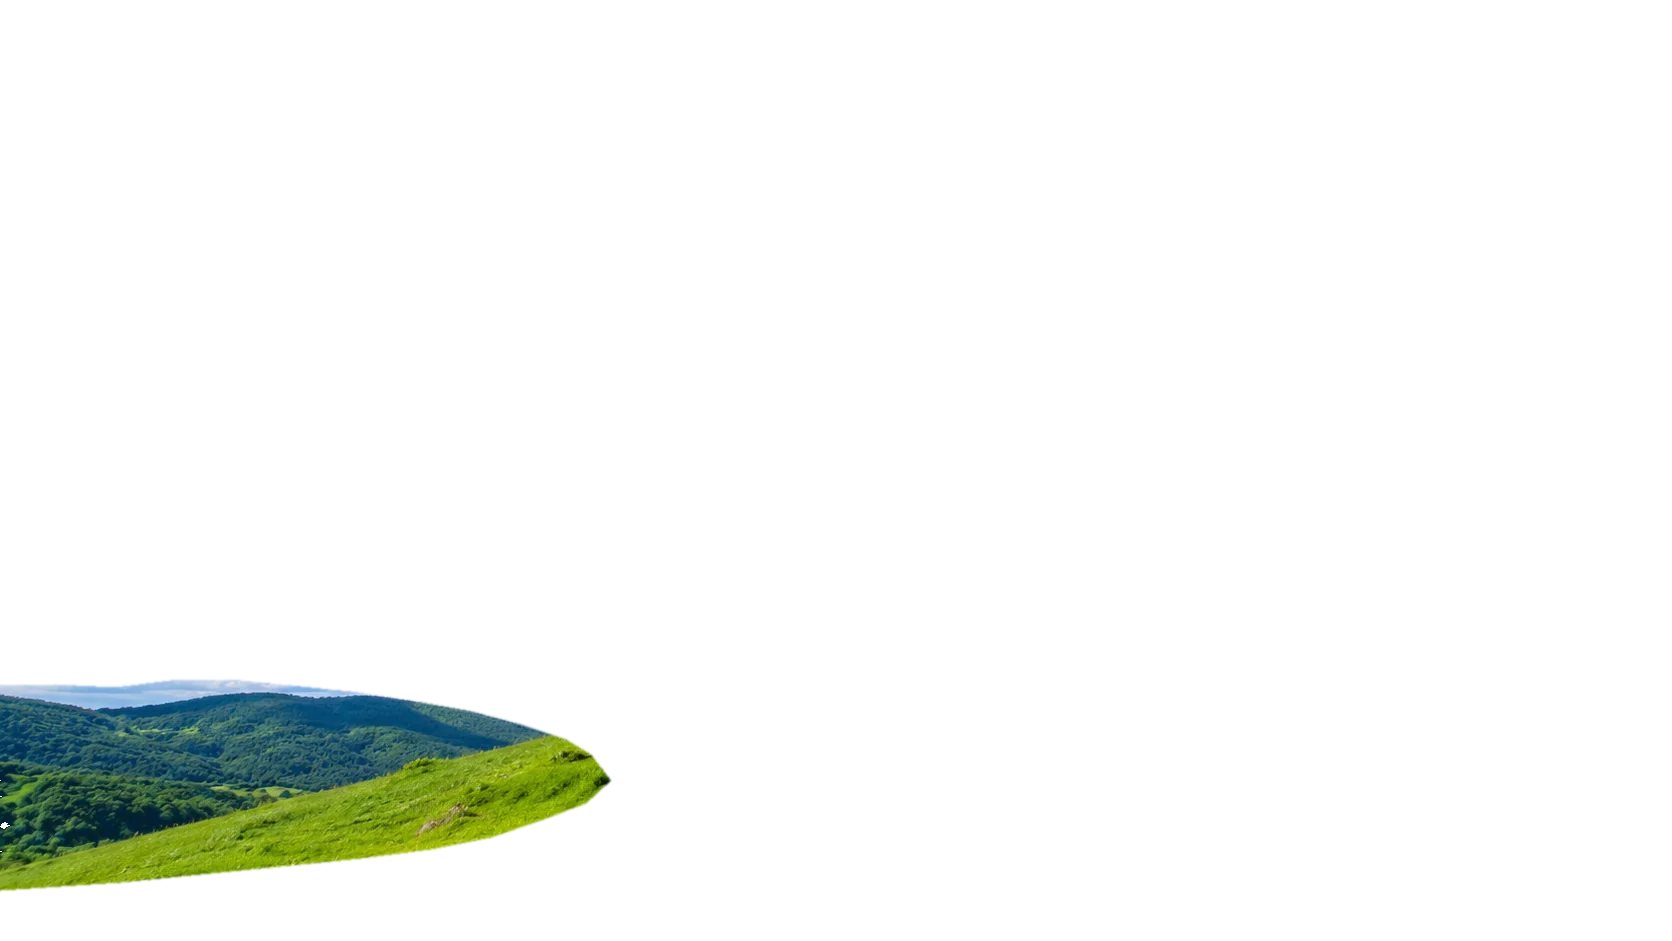
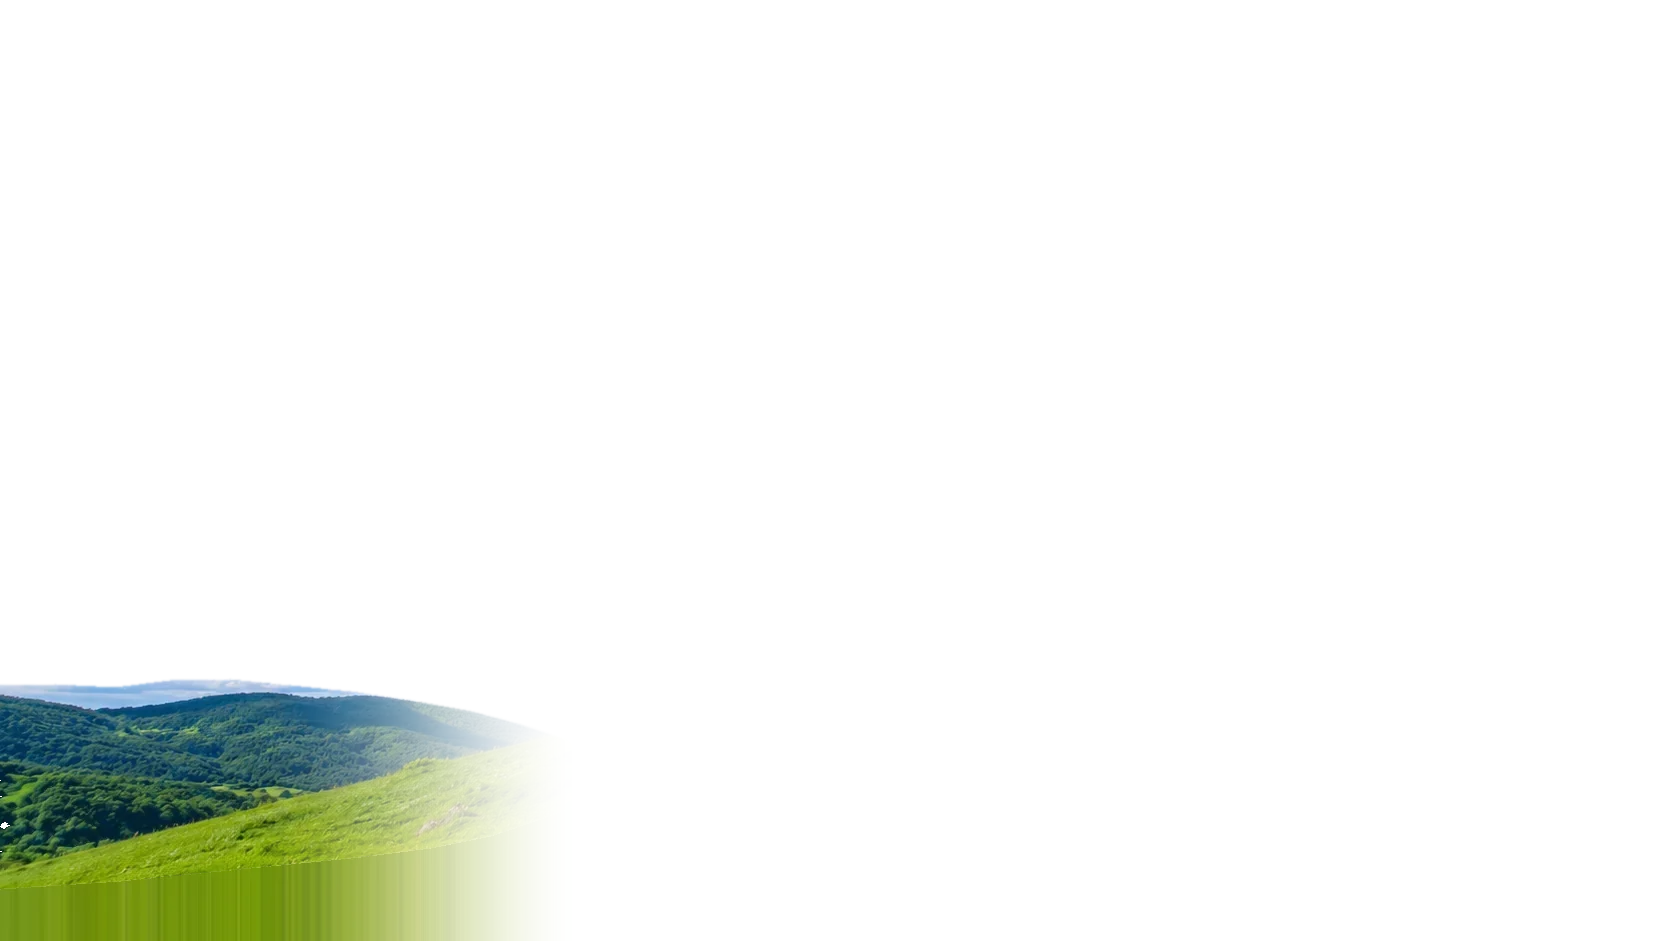
Paisagem: limpa manchas da copa, far sem vão, fim do hero sem faixa verde e nuvens entrando aos poucos

Changed region(s): [[0.0, 0.7396, 0.3732, 1.0]]

diff --git a/src/components/landscape/CloudVeil.tsx b/src/components/landscape/CloudVeil.tsx
@@ -8,7 +8,7 @@
 import { useRef } from "react";
 import { CLOUD_SPAN, cloudCenters } from "@/lib/landscape";
 import { M } from "@/lib/scroll-engine";
-import { clamp } from "@/lib/math";
+import { clamp, sstep } from "@/lib/math";
 import { useScrollFrame } from "@/hooks/useScrollFrame";
 
 const BANKS = [
@@ -19,6 +19,7 @@ const BANKS = [
 export default function CloudVeil() {
   const banks = useRef<(HTMLDivElement | null)[]>([]);
   const veil = useRef<HTMLDivElement>(null);
+  const haze = useRef<HTMLDivElement>(null);
   const wrap = useRef<HTMLDivElement>(null);
 
   useScrollFrame((s) => {
@@ -38,9 +39,18 @@ export default function CloudVeil() {
       if (veil.current) veil.current.style.opacity = Math.sin(Math.PI * p).toFixed(3);
       return;
     }
+    // entrada e saída graduais: os bancos nascem do véu de névoa e se dissolvem de volta nele
+    const fade = sstep(clamp(p / 0.34)) * (1 - sstep(clamp((p - 0.7) / 0.3)));
+    if (haze.current) {
+      // névoa que sobe antes das nuvens (sem borda): o céu esbranquiça aos poucos
+      const hy = vh * (1 - 1.5 * clamp((p + 0.05) / 0.62));
+      haze.current.style.transform = `translate3d(0, ${hy.toFixed(1)}px, 0)`;
+      haze.current.style.opacity = (sstep(clamp(p / 0.3)) * (1 - sstep(clamp((p - 0.8) / 0.2)))).toFixed(3);
+    }
     banks.current.forEach((el, i) => {
       if (!el) return;
       const b = BANKS[i];
+      el.style.opacity = (fade * (i === 0 ? 0.96 : 1)).toFixed(3);
       const h = el.offsetHeight;
       // de baixo da tela (vh) até sumir em cima (-h); o miolo cobre a tela no meio
       const t = clamp((p - 0.5) * b.speed + 0.5 + b.lag);
@@ -51,6 +61,7 @@ export default function CloudVeil() {
 
   return (
     <div ref={wrap} className="cloud-veil" aria-hidden="true">
+      <div ref={haze} className="cv-haze" />
       {BANKS.map((b, i) => (
         <div
           key={i}

diff --git a/src/app/globals.css b/src/app/globals.css
@@ -312,14 +312,14 @@ a {
   position: absolute;
   left: 0;
   right: 0;
-  top: calc(100% - 6vh);
+  top: calc(100% - 1.5vh);
 }
 .ls-green {
-  height: calc(var(--green) + 6vh);
+  height: calc(var(--green) + 1.5vh);
   /* começa na cor média da borda de baixo da foto (#6c930f) e escurece até o chão da Stack */
   background:
     repeating-linear-gradient(100deg, rgba(40, 70, 10, 0.06) 0 3px, transparent 3px 9px),
-    linear-gradient(to bottom, rgba(108, 147, 15, 0), #6c930f 6vh, #5e9e2f 40%, #4f8a27 75%, #3f7322);
+    linear-gradient(to bottom, rgba(108, 147, 15, 0), #6c930f 1.5vh, #5e9e2f 40%, #4f8a27 75%, #3f7322);
 }
 .ls-soil {
   position: relative;
@@ -361,6 +361,23 @@ a {
 }
 .cv-bank i {
   display: block;
+}
+/* névoa sem borda: a tela esbranquiça antes de as nuvens chegarem */
+.cv-haze {
+  position: absolute;
+  left: 0;
+  right: 0;
+  top: 0;
+  height: 190vh;
+  opacity: 0;
+  will-change: transform, opacity;
+  background: linear-gradient(to bottom, rgba(246, 249, 251, 0), rgba(246, 249, 251, 0.55) 22%, #f6f9fb 48%, #f6f9fb);
+}
+:root[data-theme="dark"] .cv-haze {
+  background: linear-gradient(to bottom, rgba(27, 30, 48, 0), rgba(27, 30, 48, 0.55) 22%, #1b1e30 48%, #1b1e30);
+}
+.rm .cv-haze {
+  display: none;
 }
 .cv-edge {
   filter: blur(3px);

diff --git a/src/lib/landscape.ts b/src/lib/landscape.ts
@@ -41,7 +41,7 @@ const H = 941;
 
 export const LAYERS: LandscapeLayer[] = [
   { id: "sky", src: "/landscape/sky.webp", width: W, height: H, z: -30, depth: 0.15, mouse: 6, opaque: true },
-  { id: "far", src: "/landscape/far.webp", width: W, height: H, z: -28, depth: 0.45, mouse: 10 },
+  { id: "far", src: "/landscape/far.webp", width: W, height: H, z: -28, depth: 0.82, mouse: 12 },
   // aqui, em z -24, fica o nome grande do hero (passa por trás do morro)
   { id: "front", src: "/landscape/front.webp", width: W, height: H, z: -20, depth: 0.92, mouse: 18 },
   { id: "grass", src: "/landscape/grass.webp", width: W, height: H, z: -18, depth: 1, mouse: 26 },
@@ -108,8 +108,8 @@ export function cameraAt(s: number, M: Partial<Record<SectionId, Metrics>>, vh: 
   const y = keyframes(
     [
       { y: 0, v: 0 },
-      { y: heroEnd, v: 0.14 }, // o morro sobe e esconde o pé das letras
-      { y: a - 0.22 * vh, v: 0.2 },
+      { y: heroEnd, v: 0.03 }, // o morro sobe só o que cabe na sobra: nunca aparece o fim da foto
+      { y: a - 0.22 * vh, v: 0.03 },
       { y: a + 0.02 * vh, v: stackDescent },
       { y: g("projetos") + 0.2 * vh, v: stackDescent },
       { y: g("projetos") + 0.9 * vh, v: 0 }, // atrás dos painéis, volta ao campo
